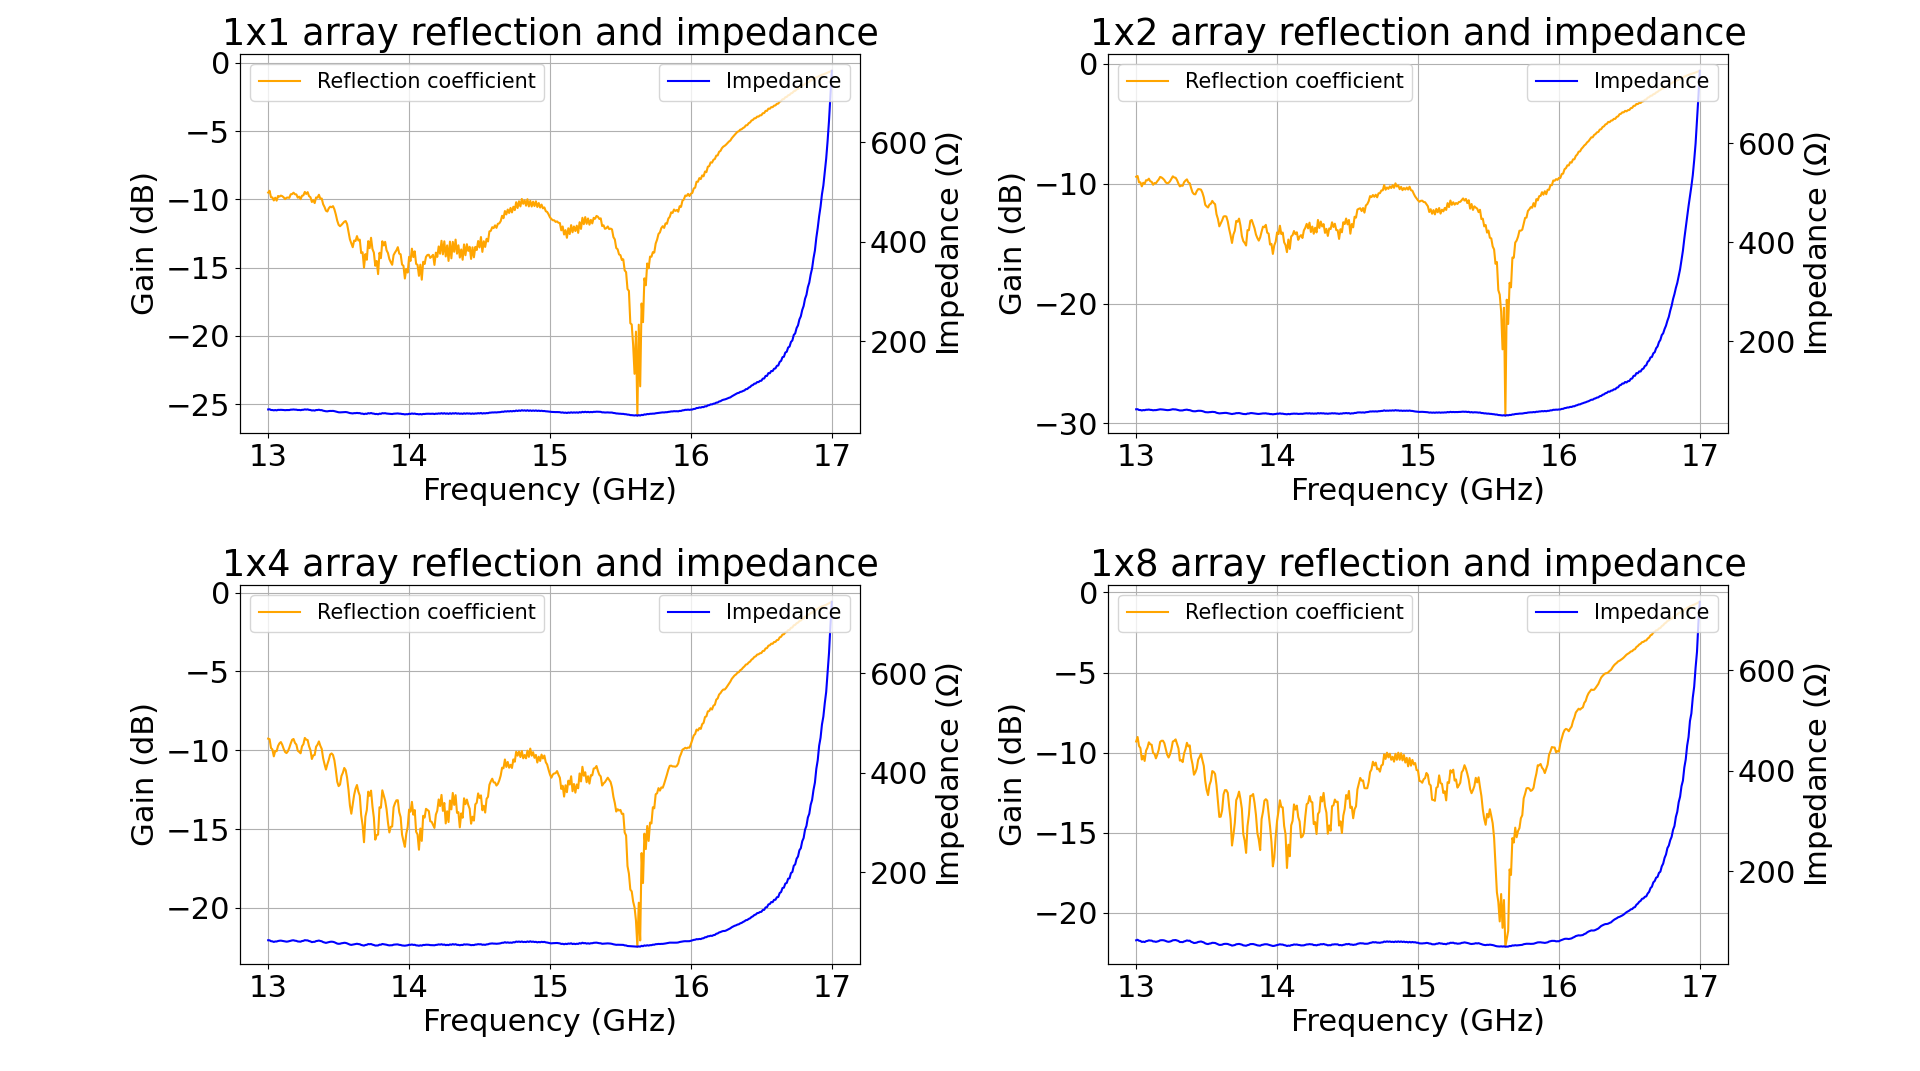
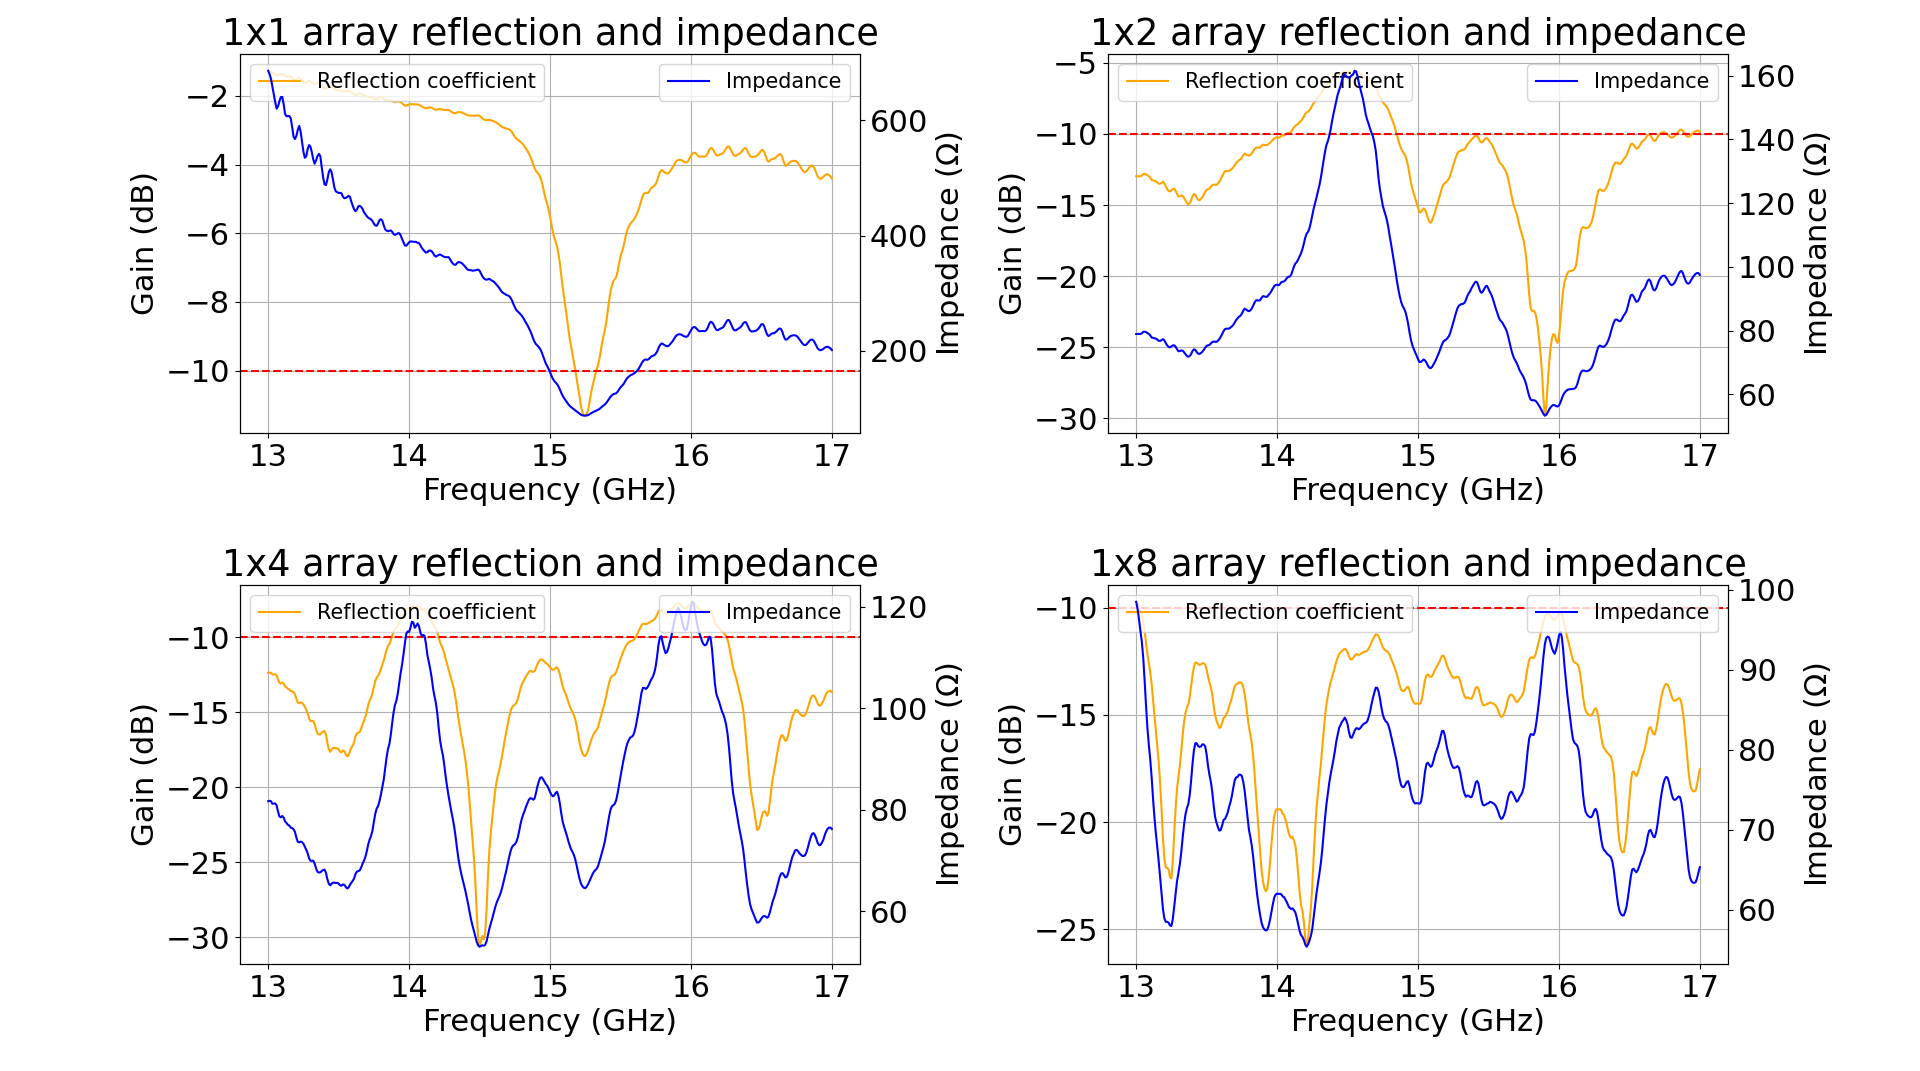
S22 en 20 log

diff --git a/lab3/Lab3_Inlab.py b/lab3/Lab3_Inlab.py
@@ -52,7 +52,10 @@ def calculate_minusdB_bandwidth(freq, s11_db, threshold=-10):
 
 def calc_op_bandwidth(freq,s11_db,threshold=-10):
     ind_above_10 = np.where(s11_db >= threshold)[0]
-
+    
+    
+    
+    
     lower_max = len(freq)/4
     upper_min = len(freq)/2
     # lower bound
@@ -64,7 +67,7 @@ def calc_op_bandwidth(freq,s11_db,threshold=-10):
     max_freq = freq[upper_ind]
     
     
-    return(max_freq - min_freq)
+    return(max_freq,min_freq)
 
 
 def calc_bandwith(Z_ant, freq):
@@ -191,7 +194,7 @@ def array_plotter(op_frequencie, array_name, symtrec = True):
     ax.grid()
     ax.set_xlabel("angle (degrees)")
     ax.set_ylabel("Magnitude (dB)")
-    plt.legend()
+    #plt.legend()
     #plt.savefig("lab3/plots/powerplot.png")
     plt.show()
 
@@ -226,17 +229,18 @@ for i, antenna in zip(list(range(len(antarrays))),antarrays):
     
     freq, S11, S21, S12, S22 = readout_s2p(antenna)
     
-    S11 = np.abs(S11)
+    S22 = np.abs(S22)
     
-    imp = calc_impedance(S11)
+    imp = calc_impedance(S22)
     
     
-    S11_dB = 10*np.log10(S11)
+    S22_dB = 20*np.log10(S22)
     
 
     ax2 = ax.twinx()
     ax.set_title(f"{antenna[:3]} array reflection and impedance")
-    ax.plot(freq/1e9,S11_dB,label="Reflection coefficient",color="orange")
+    ax.plot(freq/1e9,S22_dB,label="Reflection coefficient",color="orange")
+    ax.axhline(-10,linestyle="--",color="red")
     ax2.plot(freq/1e9,imp,label="Impedance",color="blue")
     
     ax.set_xlabel("Frequency (GHz)")
@@ -247,8 +251,8 @@ for i, antenna in zip(list(range(len(antarrays))),antarrays):
     ax2.legend(loc=1, prop={'size': 15})
     plt.show()
     
-    op_bandwidth = calc_op_bandwidth(freq,S11_dB)/1e9
-    print(f"The operational bandwidth of the {antenna} array is {op_bandwidth} GHz")
+    #op_bandwidth = calc_op_bandwidth(freq,S22_dB)#/1e9
+    #print(f"The operational bandwidth of the {antenna} array is {op_bandwidth} GHz")
     
     
     
@@ -288,7 +292,7 @@ for i, antenna in zip(list(range(len(antarrays))),antarrays):
     
     
     ax.set_xlabel("Frequency (GHz)")
-    ax.set_ylabel("Gain (dB)")
+    ax.set_ylabel("Received power (dB)")
     ax.grid()
     #ax.legend(loc=2, prop={'size': 15})
     plt.show()
